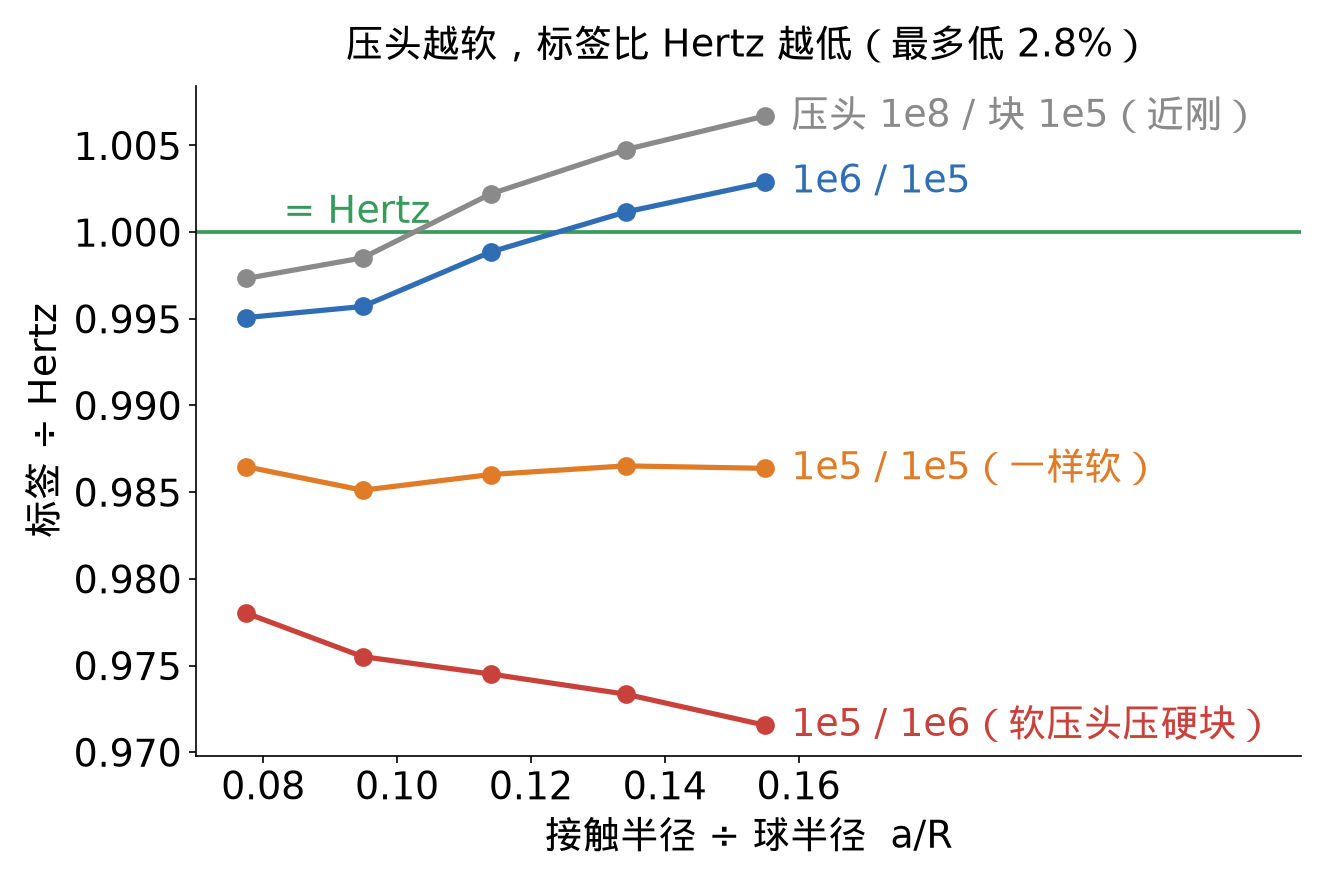
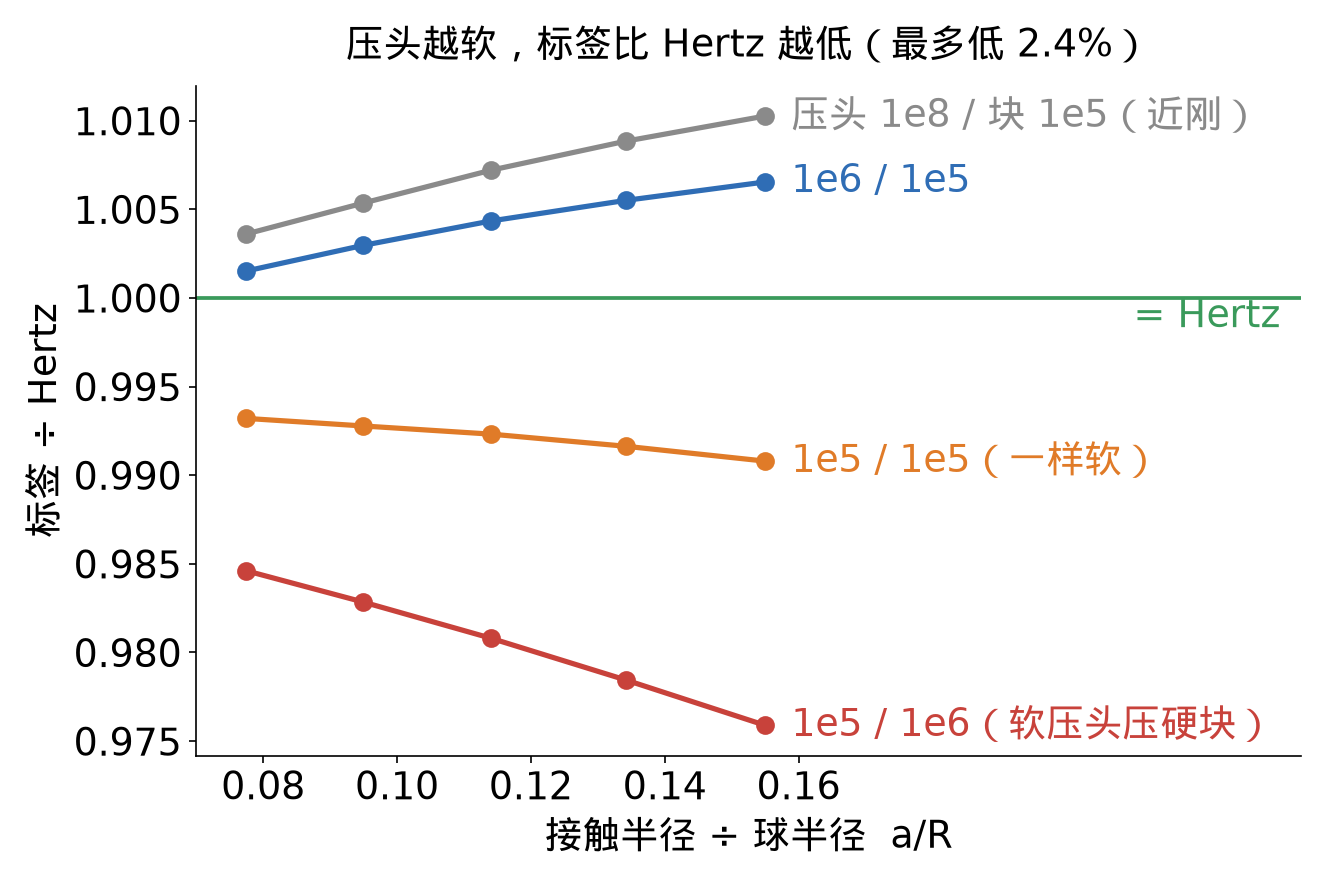
week3_4 4.2: soft-indenter table and two figures on the d1 three-level labels

diff --git a/week3_4.html b/week3_4.html
@@ -863,19 +863,19 @@ html.annot-on #annot-capture { display: block; }
 <tbody>
 <tr>
 <td>1e8 / 1e5</td>
-<td>0.997–1.007</td>
+<td>1.002–1.010</td>
 </tr>
 <tr>
 <td>1e6 / 1e5</td>
-<td>0.995–1.003</td>
+<td>1.000–1.007</td>
 </tr>
 <tr>
 <td>1e5 / 1e5</td>
-<td>0.985–0.987</td>
+<td>0.991–0.993</td>
 </tr>
 <tr>
 <td>1e5 / 1e6</td>
-<td>0.972–0.978</td>
+<td>0.976–0.986</td>
 </tr>
 </tbody>
 </table></div>
@@ -883,7 +883,7 @@ html.annot-on #annot-capture { display: block; }
 <figure style="margin:12px 0"><img src="assets/images/w34_s33_soft_indenter_pressed.png" width="2578" height="2520" style="width:850px;max-width:100%;height:auto" alt="这张图展示了压头越软，它自己被压平得越多。四幅是上一张同样四组压到最深时过中心的剖面，竖直方向放大了 4 倍才看得清，每幅上方仍是压头和块的杨氏模量。通过对比四幅里压头底部的形状可以看出，左上深灰的近刚压头底部还是完整的圆弧，坑全压在浅蓝块上，它只分到 0.1% 的能量；右上、左下压头依次变软，底部越来越平，压头分到的能量依次是 9%、51%；右下浅橙压头压深蓝硬块，几乎是压头自己被压平，分到 91% 的能量。四幅里描红的是 IPC 实际施加了接触力的块节点（力分到块三角形的角或棱的两端，所以红段比真正贴住的地方长出约一个网格单元），最深一档整面受力节点依次 167、167、166、137 个。4.2 节说的就是这件事：压头一软，凹下去的变成了本来就弯的球冠，Hertz 的「小变形、接触区远小于球」两个假设就不再那么成立，所以标签比 Hertz 低一些。" loading="lazy"><figcaption class="small">这张图展示了压头越软，它自己被压平得越多。四幅是上一张同样四组压到最深时过中心的剖面，竖直方向放大了 4 倍才看得清，每幅上方仍是压头和块的杨氏模量。通过对比四幅里压头底部的形状可以看出，左上深灰的近刚压头底部还是完整的圆弧，坑全压在浅蓝块上，它只分到 0.1% 的能量；右上、左下压头依次变软，底部越来越平，压头分到的能量依次是 9%、51%；右下浅橙压头压深蓝硬块，几乎是压头自己被压平，分到 91% 的能量。四幅里描红的是 IPC 实际施加了接触力的块节点（力分到块三角形的角或棱的两端，所以红段比真正贴住的地方长出约一个网格单元），最深一档整面受力节点依次 167、167、166、137 个。4.2 节说的就是这件事：压头一软，凹下去的变成了本来就弯的球冠，Hertz 的「小变形、接触区远小于球」两个假设就不再那么成立，所以标签比 Hertz 低一些。</figcaption></figure>
 <figure style="margin:12px 0"><img src="assets/images/w34_s3_3_soft.png" width="1327" height="877" style="width:517px;max-width:100%;height:auto" alt="这张图展示了压头越软，标签比 Hertz 低得越多，最多低 2.8%。四组都是半径 1 的球冠压头压平块，标签是两体弹性能之和除以两体 Hertz 能量，区别只在压头和块的杨氏模量：灰线压头 1e8、块 1e5（压头近刚），蓝线 1e6 / 1e5，橙线 1e5 / 1e5（一样软），红线 1e5 / 1e6（软压头压硬块）。灰线和蓝线都在绿色 Hertz 线上下 0.7% 以内；橙线整体低约 1.4%，红线最低，到 0.972，并且越往右越低。横轴越往右，接触区相对球越大，红线的走势说明偏差来自 Hertz 的「小变形、接触区远小于球」两个假设在软压头上不再成立。" loading="lazy"><figcaption class="small">这张图展示了压头越软，标签比 Hertz 低得越多，最多低 2.8%。四组都是半径 1 的球冠压头压平块，标签是两体弹性能之和除以两体 Hertz 能量，区别只在压头和块的杨氏模量：灰线压头 1e8、块 1e5（压头近刚），蓝线 1e6 / 1e5，橙线 1e5 / 1e5（一样软），红线 1e5 / 1e6（软压头压硬块）。灰线和蓝线都在绿色 Hertz 线上下 0.7% 以内；橙线整体低约 1.4%，红线最低，到 0.972，并且越往右越低。横轴越往右，接触区相对球越大，红线的走势说明偏差来自 Hertz 的「小变形、接触区远小于球」两个假设在软压头上不再成立。</figcaption></figure>
 <p>压头越软，标签越低；软硬对调后两者也不再相等，而 Hertz 预言相等。原因在 2.1 节的两个前提：变形很小，接触半径 \(a\) 远小于球半径 \(R\)。压头硬时凹下去的是本来就平的块，两个前提都成立；压头软时凹下去的是弯的球，\(a/R\) 又不够小，两个前提都偏了。</p>
-<p>偏差有规律：压头一侧承担的软度份额越大，接触圈相对球越宽，偏得越多。独立的轴对称有限元（不共用代码）与标签的比值逐压深只差 −0.07 至 +0.15 个百分点，说明偏的是 Hertz 公式，不是标签。独立有限元算软球冠压刚性平面，把软底座的宽和高外推到无限大后，比 Hertz 低 1.6%–3.6%，其中约 60%–74% 来自有限变形，其余来自曲面几何。</p>
+<p>偏差有规律：压头一侧承担的软度份额越大，接触圈相对球越宽，偏得越多。独立的轴对称有限元（不共用代码）与标签的比值逐压深只差 −0.07 至 +0.15 个百分点（比的是软球冠压刚性块的标签，这个构型不在上表四组里），说明偏的是 Hertz 公式，不是标签。独立有限元算软球冠压刚性平面，把软底座的宽和高外推到无限大后，比 Hertz 低 1.6%–3.6%，其中约 60%–74% 来自有限变形，其余来自曲面几何。</p>
 <figure style="margin:12px 0"><img src="assets/images/w34_femref_capblock_pressed.png" width="872" height="978" style="width:561px;max-width:100%;height:auto" alt="这张图展示独立有限元裁判算的情形：一个带球冠头的软圆柱（半径 = 高 = 2.4，球冠半径 R = 1、水平半径 0.6，E = 1e5），顶面固定（深灰条），被下面的刚性平面（灰）往上压到最深一档 0.024 后的形状。裁判是轴对称计算，只算半个剖面，这里关于中轴镜像成整个剖面，没有放大。上幅是整个计算域，能看出变形只集中在球冠底部，圆柱其余部分几乎不动；下幅放大接触区，红点是裁判自己判为接触的表面节点（到平面的间隙大于 −1e-7），接触区半径约 0.155，和 Hertz 的 √(Rδ) = 0.155 一致，这一档的弹性能是 Hertz 的 1.007 倍。这是底座宽、高都为 2.4 的这一个几何；把底座的宽和高外推到无限大后，比 Hertz 低 1.6%–3.6%，即正文 4.2 节的数。" loading="lazy"><figcaption class="small">这张图展示独立有限元裁判算的情形：一个带球冠头的软圆柱（半径 = 高 = 2.4，球冠半径 R = 1、水平半径 0.6，E = 1e5），顶面固定（深灰条），被下面的刚性平面（灰）往上压到最深一档 0.024 后的形状。裁判是轴对称计算，只算半个剖面，这里关于中轴镜像成整个剖面，没有放大。上幅是整个计算域，能看出变形只集中在球冠底部，圆柱其余部分几乎不动；下幅放大接触区，红点是裁判自己判为接触的表面节点（到平面的间隙大于 −1e-7），接触区半径约 0.155，和 Hertz 的 √(Rδ) = 0.155 一致，这一档的弹性能是 Hertz 的 1.007 倍。这是底座宽、高都为 2.4 的这一个几何；把底座的宽和高外推到无限大后，比 Hertz 低 1.6%–3.6%，即正文 4.2 节的数。</figcaption></figure>
 <p><strong>验收办法。</strong></p>
 <ol>
